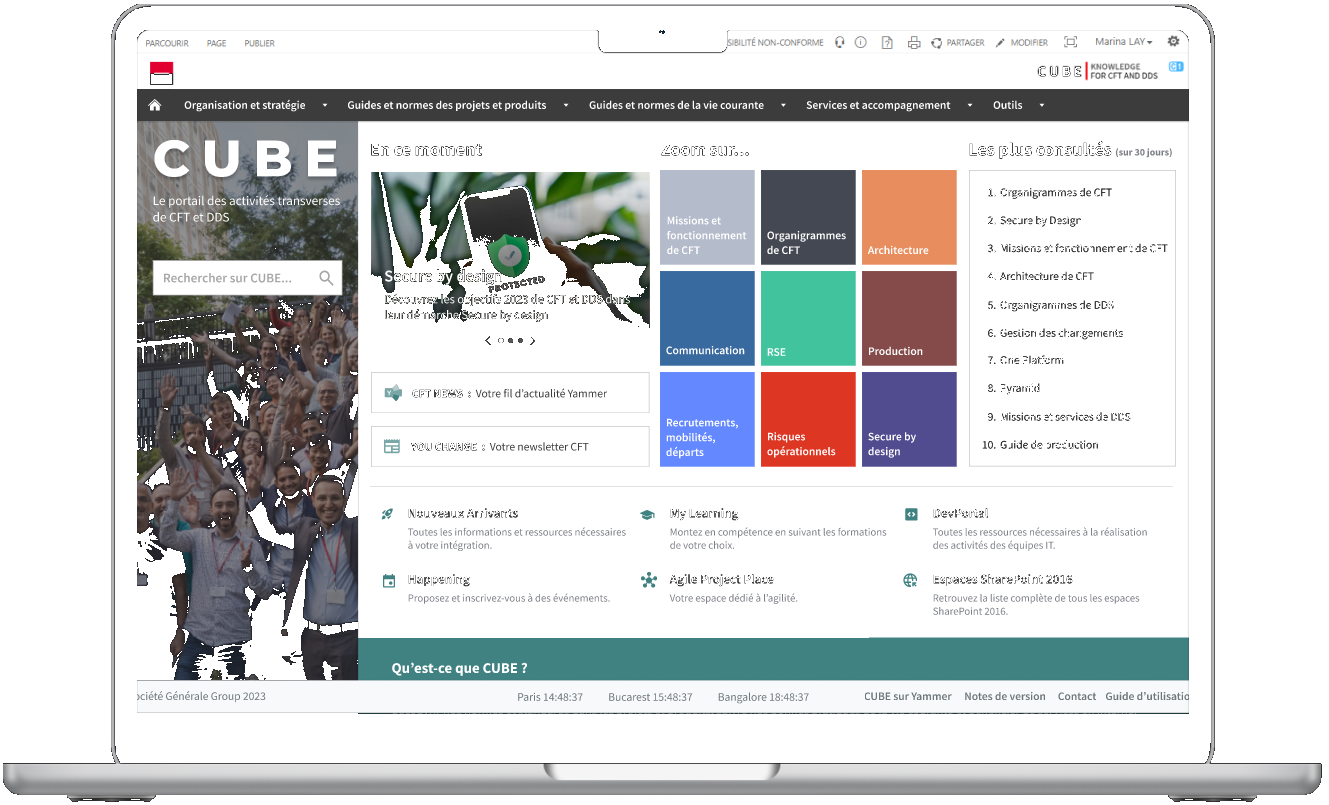
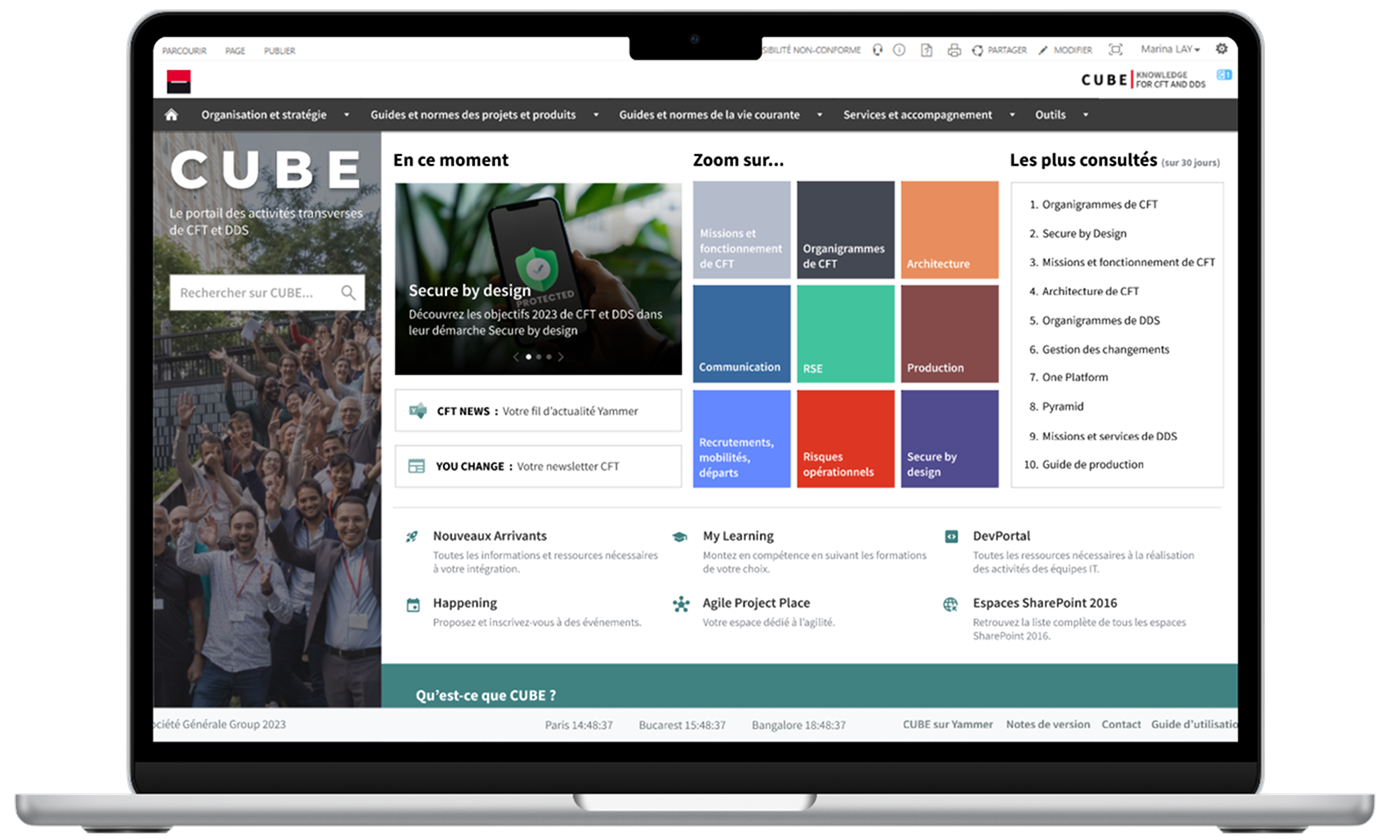
UI fixes

diff --git a/css/style.css b/css/style.css
@@ -1966,7 +1966,7 @@ body:has(main > .section-accent:last-child) footer {
 }
 
 .section-dark .section-head h2 {
-    color: var(--paper);
+    color: var(--card);
 }
 
 /* Si la page se termine par une bande sombre, elle se raccorde
@@ -2849,8 +2849,18 @@ header ~ main .section {
 /* Mobile : une carte et demie visible, pas de flèches
    (on fait défiler le carrousel au doigt) */
 @media (max-width: 700px) {
+    /* Sans les badges, les cartes sont plus compactes :
+       on en montre un peu plus à l'écran */
     .carousel {
-        --carousel-per-view: 1.5;
+        --carousel-per-view: 1.75;
+    }
+
+    .portfolio-grid .project-platforms {
+        display: none;
+    }
+
+    .portfolio-grid .project-description {
+        margin-bottom: 0;
     }
 
     .carousel-track.portfolio-grid {
@@ -3141,7 +3151,7 @@ footer {
 }
 
 footer h2 {
-    color: var(--paper);
+    color: var(--card);
     text-align: center;
 }
 
@@ -3197,7 +3207,6 @@ footer .footer-content .footer-content {
 .case-study-header {
     background: var(--accent-soft);
     color: var(--ink);
-    border-bottom: var(--border);
 }
 
 .case-study-header h1 {

diff --git a/realisations-inouk-v4.html b/realisations-inouk-v4.html
@@ -42,7 +42,6 @@
                             <p><b><span class="highlight">Catégorie :</span></b> Projet associatif</p>
                             <p><b><span class="highlight">Période :</span></b> Juillet 2025</p>
                             <p><b><span class="highlight">Format :</span></b> Mobile</p>
-                            <p><a href="https://www.figma.com/proto/MwYvsDcgiq7EKitOAEjRqM/-Challenge-V4--Prototypes?node-id=2007-558&p=f&t=cACc9TvsI5cOGBpT-1&scaling=scale-down&content-scaling=fixed&page-id=52%3A81&starting-point-node-id=2007%3A558&show-proto-sidebar=1" target="_blank" class="highlight">Voir les prototypes sur Figma</a></span></p>
                             </div>
                         </div>
                     </div>
